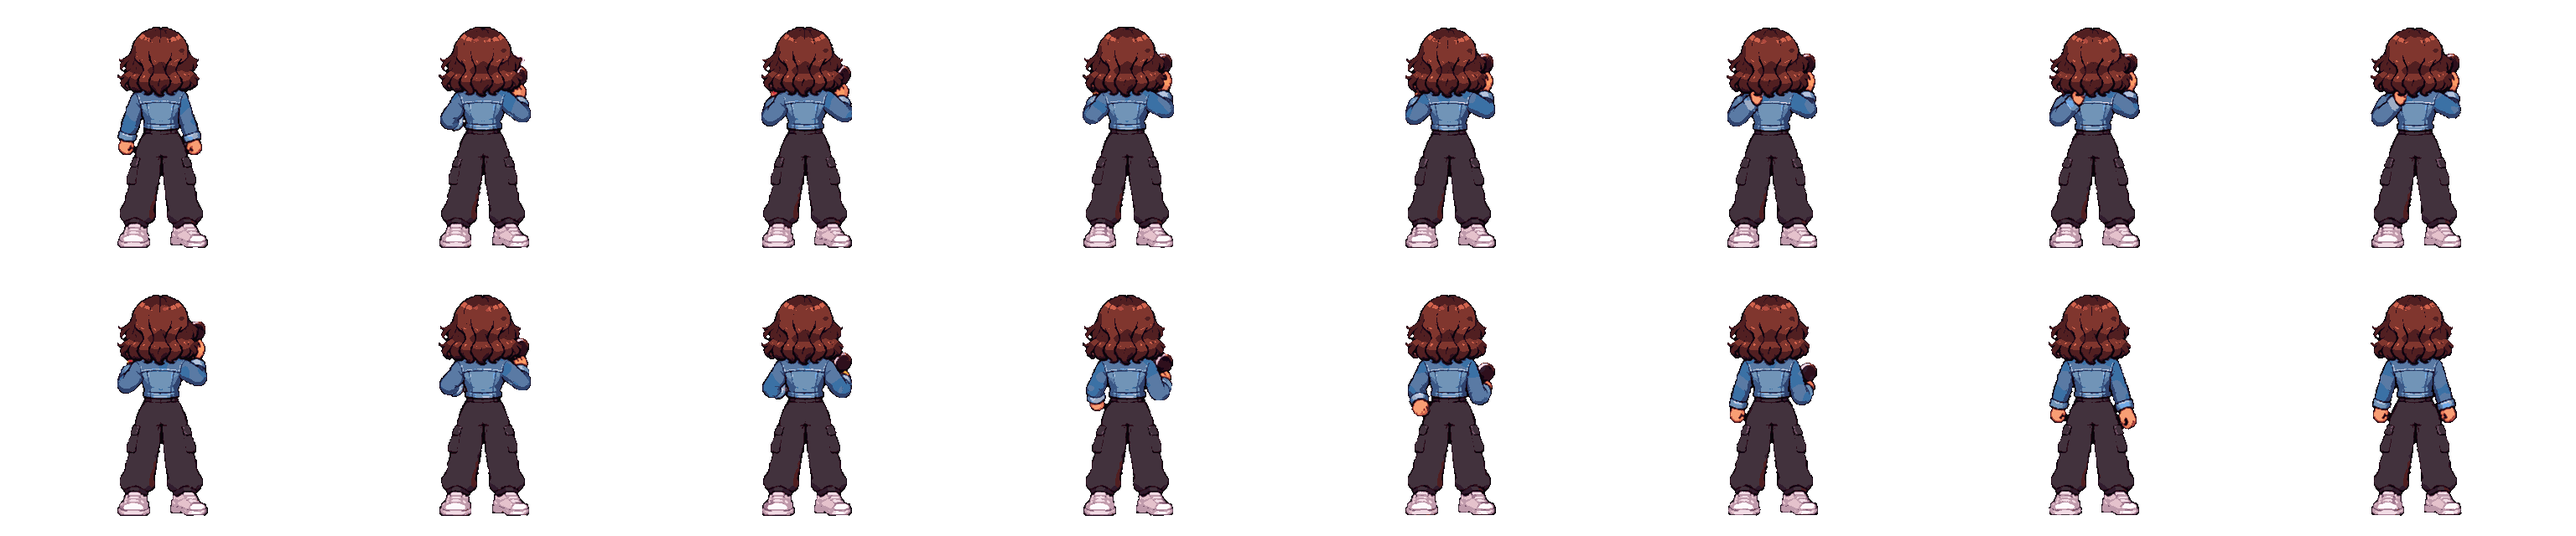
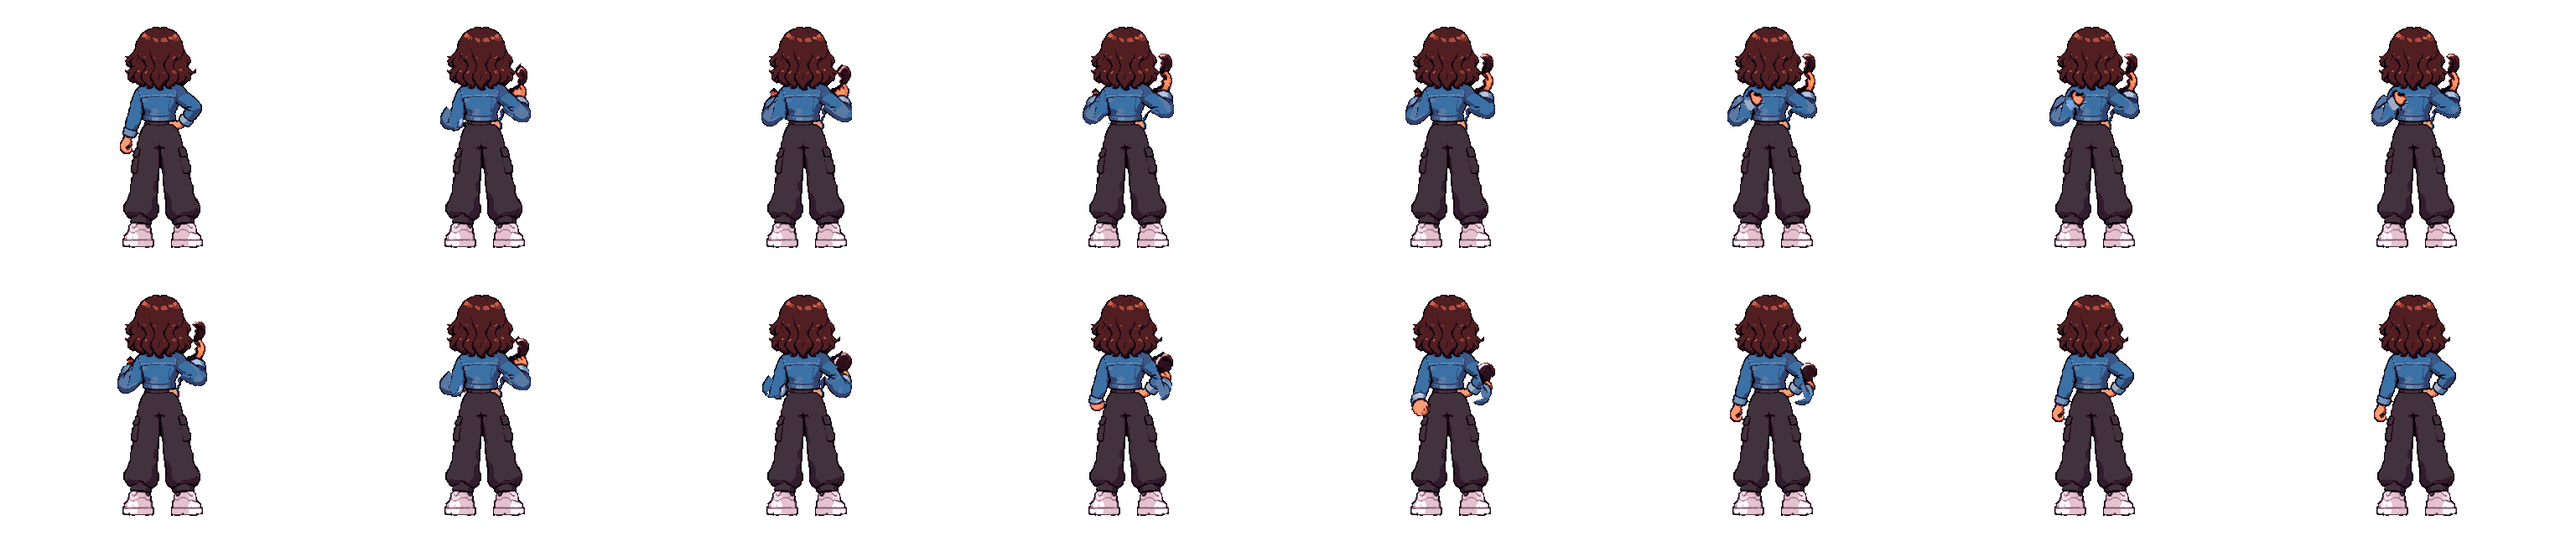
Zee makeup idle uses her own idle pixels in every view (only arms and props move), so she looks the same as when standing

diff --git a/src/main.js b/src/main.js
@@ -1,14 +1,14 @@
 // Game shell: loads Zee, runs the loop, draws the placeholder office + HUD, wires pause / touch UI.
-import { CONFIG } from './config.js?v=202611271630';
-import { loadCharacter, VERSION, LOOK, setLight } from './assets.js?v=202611271630';
-import { Input } from './input.js?v=202611271630';
-import { Zee } from './zee.js?v=202611271630';
-import { Game } from './game.js?v=202611271630';
-import { ENEMY_IDS } from './enemy.js?v=202611271630';
-import { drawHud as drawArcadeHud } from './hud.js?v=202611271630';
-import { Level, qualityDepartment } from './level.js?v=202611271630';
-import { Camera } from './camera.js?v=202611271630';
-import { unlock } from './sfx.js?v=202611271630';
+import { CONFIG } from './config.js?v=202611271703';
+import { loadCharacter, VERSION, LOOK, setLight } from './assets.js?v=202611271703';
+import { Input } from './input.js?v=202611271703';
+import { Zee } from './zee.js?v=202611271703';
+import { Game } from './game.js?v=202611271703';
+import { ENEMY_IDS } from './enemy.js?v=202611271703';
+import { drawHud as drawArcadeHud } from './hud.js?v=202611271703';
+import { Level, qualityDepartment } from './level.js?v=202611271703';
+import { Camera } from './camera.js?v=202611271703';
+import { unlock } from './sfx.js?v=202611271703';
 
 const { w: W, h: H } = CONFIG.view;
 const canvas = document.getElementById('game');

diff --git a/src/level.js b/src/level.js
@@ -20,8 +20,8 @@
 //   light: { rim, rimAlpha, rimPx, lightX, lightY, wash, washAlpha, feet } = how Zee and the enemies are lit in this room
 //   (rim / wash are [r,g,b]); the game eases from one room's light to the next (see setLight in assets.js).
 //   doorRight is the door to the NEXT room: while it is locked the player cannot pass it; no door (or unlocked) = open.
-import { CONFIG } from './config.js?v=202611271630';
-import { VERSION } from './assets.js?v=202611271630';
+import { CONFIG } from './config.js?v=202611271703';
+import { VERSION } from './assets.js?v=202611271703';
 
 const C = CONFIG.camera, F = CONFIG.floor;
 export const LAYER_H = 507;                       // layer height in pixels (the view shows 506.25)

diff --git a/src/game.js b/src/game.js
@@ -1,9 +1,9 @@
 // Game world: Zee + enemies, combat resolution, projectiles and all the "juice" (hit flash, sparks, shake, hit-stop, sound).
-import { CONFIG } from './config.js?v=202611271630';
-import { Enemy } from './enemy.js?v=202611271630';
-import { SOFT } from './zee.js?v=202611271630';
-import { sfx } from './sfx.js?v=202611271630';
-import { drawAnim } from './assets.js?v=202611271630';
+import { CONFIG } from './config.js?v=202611271703';
+import { Enemy } from './enemy.js?v=202611271703';
+import { SOFT } from './zee.js?v=202611271703';
+import { sfx } from './sfx.js?v=202611271703';
+import { drawAnim } from './assets.js?v=202611271703';
 
 const E = CONFIG.enemy;
 

diff --git a/src/enemy.js b/src/enemy.js
@@ -1,8 +1,8 @@
 // Enemy: a fighter with a small brain. It lines up with Zee, flanks, chains combos, sidesteps her swings, punishes her recovery,
 // throws call-centre headsets, and (navy + sporty, the "heavies") grabs and throws her.
 // Art comes from assets/characters/<id>/ ; every enemy shares this one brain.
-import { CONFIG } from './config.js?v=202611271630';
-import { frameAt, drawAnim, drawShadow, LOOK } from './assets.js?v=202611271630';
+import { CONFIG } from './config.js?v=202611271703';
+import { frameAt, drawAnim, drawShadow, LOOK } from './assets.js?v=202611271703';
 
 const E = CONFIG.enemy;
 const rnd = (a, b) => a + Math.random() * (b - a);

diff --git a/src/hud.js b/src/hud.js
@@ -1,8 +1,8 @@
 // Arcade HUD (early-2000s style): angled panels with white outlines, glossy bars, bold italic type.
 // Built from separate pieces drawn in game units, so it scales with the canvas at any resolution.
 // Top-left: portrait + HP bar + SP meter. Bottom-left: KO counter. All values come from the live game state.
-import { CONFIG } from './config.js?v=202611271630';
-import { VERSION } from './assets.js?v=202611271630';
+import { CONFIG } from './config.js?v=202611271703';
+import { VERSION } from './assets.js?v=202611271703';
 
 const portrait = new Image();
 portrait.src = 'assets/ui/zee_portrait.png?v=' + VERSION;

diff --git a/src/zee.js b/src/zee.js
@@ -1,7 +1,7 @@
 // Zee: the player character. A small state machine driven by input actions.
 // Movement, combat timing, and animation selection live here; art comes from the manifest (assets.js).
-import { CONFIG } from './config.js?v=202611271630';
-import { frameAt, drawAnim, drawShadow, LOOK } from './assets.js?v=202611271630';
+import { CONFIG } from './config.js?v=202611271703';
+import { frameAt, drawAnim, drawShadow, LOOK } from './assets.js?v=202611271703';
 
 const C = CONFIG.zee;
 // Front and back sheets are drawn as seen by the camera, so they are never mirrored (her badge and hand stay on the correct side).

diff --git a/src/camera.js b/src/camera.js
@@ -1,7 +1,7 @@
 // The world camera. The world is drawn through a zoomed-out camera (CONFIG.camera.zoom, about 0.71): 900 x 506 world units
 // are visible and rendered into the 640 x 360 screen. The camera follows Zee horizontally (with a little look-ahead in the
 // direction she faces) and is clamped to the level. It never scrolls vertically: the world is exactly one screen tall.
-import { CONFIG } from './config.js?v=202611271630';
+import { CONFIG } from './config.js?v=202611271703';
 
 export class Camera {
   constructor() { this.x = 0; this.px = 0; this.gx = 0; this.look = 0; this.ready = false; }

diff --git a/src/assets.js b/src/assets.js
@@ -1,6 +1,6 @@
 // Loads a character's manifest + strips and turns them into ready-to-play animation objects.
 // To swap art, replace the PNG strips / manifest in assets/characters/<name>/ - no code changes needed.
-import { CONFIG } from './config.js?v=202611271630';
+import { CONFIG } from './config.js?v=202611271703';
 
 // Release stamp, taken from this module's own URL (?v=...): every release uses new URLs so browsers never serve stale files.
 export const VERSION = new URL(import.meta.url).searchParams.get('v') || 'dev';

diff --git a/index.html b/index.html
@@ -93,7 +93,7 @@
 <div id="rotate"><div><h2>Rotate your phone</h2><p style="color:var(--mute)">This game plays in landscape.</p></div></div>
 <div id="loading"><div><div class="lt">CALL TERMINATED</div><div class="ls">is loading...</div></div></div>
 
-<script type="module" src="src/main.js?v=202611271630"></script>
+<script type="module" src="src/main.js?v=202611271703"></script>
 </body>
 </html>
 

diff --git a/src/input.js b/src/input.js
@@ -1,6 +1,6 @@
 // Unified input: keyboard on PC/laptop, floating joystick + buttons on touch devices.
 // The game only reads: input.axis (x,y in -1..1), input.run, and input.consume() (one-shot actions).
-import { CONFIG } from './config.js?v=202611271630';
+import { CONFIG } from './config.js?v=202611271703';
 
 export class Input {
   constructor(root = document) {
